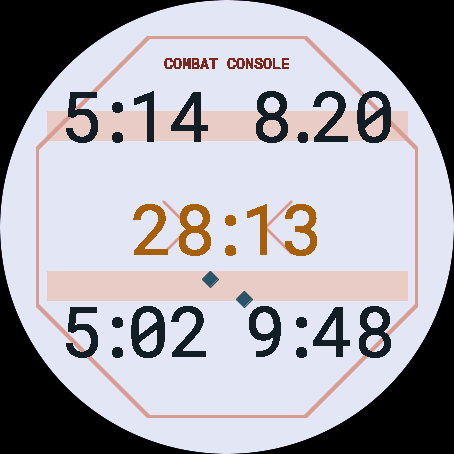
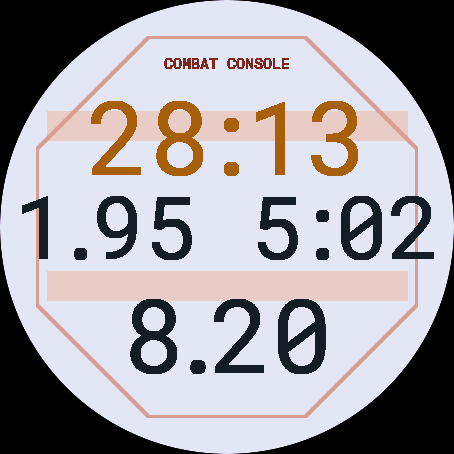
Release prep v0.2.0: 4-field compass screenshots + store copy
Packages the compass work (#46, #47, #49) as the v0.2.0 store release.

Screenshots: all 8 theme x mode faces recaptured on fr965 at the new
4-field compass default, using the fixed store pose extended with a lap
distance consistent with it (9:48 at 5:02/km = 1.95 km). Captured in a
throwaway worktree with theme/mode forced in code rather than via
properties.xml, which sidesteps the simulator's persisted-app-data trap
that store/README.md warns about. Crop offset re-verified by the
README's own light-vs-dark difference method: still 454x454+114+262.

Copy: CHANGELOG [Unreleased] becomes [0.2.0], reordered so the compass
and the default-layout flip lead. description.txt gains its 0.2.0
"What's changed" entry, and the evergreen copy is retired of the old
5-field story - the at-a-glance list now names the compass's actual
default metrics, and the "1 to 5 fields" bullet says what the default
now is. Both breaking changes are stated in both files: the layout
default moves 5 -> 4, and customised field choices reset once.

description.txt is 3993/4000 chars; the 0.1.1 history line was dropped
to fit.

Refs #50

diff --git a/CHANGELOG.md b/CHANGELOG.md
@@ -8,8 +8,22 @@ built `.iq` attached for quick rollback — see [docs/releasing.md](docs/releasi
 
 There is no version field in the Connect IQ manifest; the git tag is the version.
 
-## [Unreleased]
+## [0.2.0] - 2026-08-31
 
+- The 4-field layout is now arranged as a compass: one large value at the top,
+  one at each side, and one at the bottom, with much bigger type than the old
+  four-corner grid.
+- **New installs start on the 4-field compass** instead of the 5-field grid.
+  Anyone who never changed the layout setting moves from a 5-field screen to a
+  4-field one on update; the 5-field grid is still one setting away in Garmin
+  Connect.
+- Each layout now has its own field configuration with its own defaults:
+  choosing metrics for one layout no longer changes any other. The 4-field
+  compass starts as Timer / Lap pace / Distance / Lap distance.
+- **One-time reset:** because the per-layout field settings changed shape,
+  custom field choices from earlier versions revert to the new defaults — set
+  them again in Garmin Connect. Theme, mode, layout and label settings are kept.
+  There is no migration shim; this was an accepted, deliberate trade-off.
 - Light modes now tell the value roles apart by colour. Phosphor light was the
   worst case: its hero, session and lap colours were two near-identical teals,
   so every value on the face read as one colour — it is the only palette that
@@ -18,22 +32,10 @@ There is no version field in the Connect IQ manifest; the git tag is the version
   Bulkhead light give their session values the hero amber, so the compass reads
   its top and bottom as one pair against contrasting sides — the arrangement
   Cockpit light already had. Dark modes are unchanged.
-
-- Times past an hour keep their size on the 4-, 3-, 2- and 1-field layouts:
-  the hours now render as a small prefix (`1:` beside a full-size `00:04`)
-  instead of the whole value shrinking to fit. The 5-field layout already did
-  this.
-- The 4-field layout is now arranged as a compass: one large value at the
-  top, one at each side, and one at the bottom, with much bigger type than
-  the old four-corner grid. Times past an hour keep their size there too.
-- Each layout now has its own field configuration with its own defaults:
-  choosing metrics for one layout no longer changes any other. The 4-field
-  compass starts as Timer / Lap pace / Distance / Lap distance.
-- New installs start on the 4-field compass layout instead of the 5-field
-  grid.
-- One-time reset: because the field settings changed shape, custom field
-  choices from earlier versions revert to the new defaults — set them again
-  in Garmin Connect. Theme, mode, layout and label settings are kept.
+- Times past an hour keep their size on the 4-, 3-, 2- and 1-field layouts: the
+  hours now render as a small prefix (`1:` beside a full-size `00:04`) instead
+  of the whole value shrinking to fit. The 5-field layout already did this, and
+  the 4-field compass picked it up once its slots were widened.
 
 ## [0.1.5] - 2026-08-06
 
